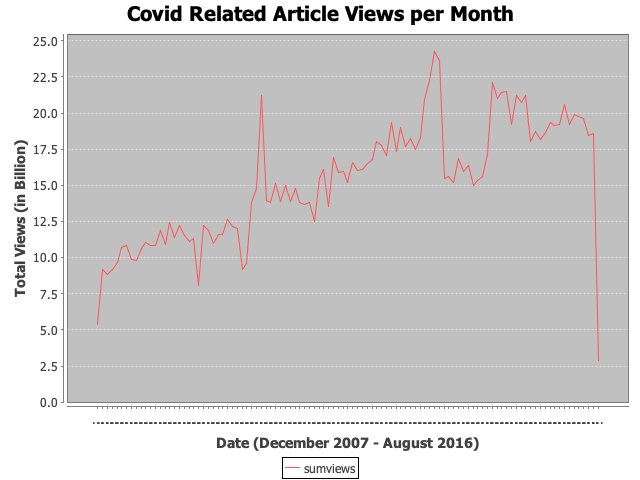
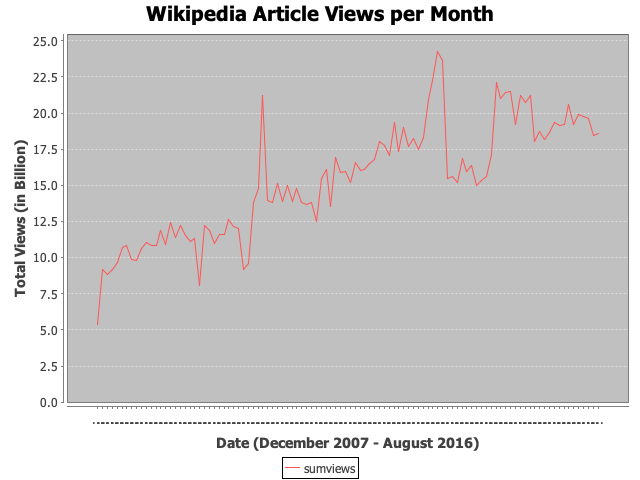
Project

diff --git a/src/main/java/space/harbour/java/project/LineChartSumPageViews.java b/src/main/java/space/harbour/java/project/LineChartSumPageViews.java
@@ -114,10 +114,9 @@ public class LineChartSumPageViews {
         dataset.addValue(19.66, "sumviews", "2016050100");
         dataset.addValue(18.45, "sumviews", "2016060100");
         dataset.addValue(18.61, "sumviews", "2016070100");
-        dataset.addValue(2.85, "sumviews", "2016080100");
 
         JFreeChart lineChartObject = ChartFactory.createLineChart(
-                "Covid Related Article Views per Month", "Date (December 2007 - August 2016)",
+                "Wikipedia Article Views per Month", "Date (December 2007 - August 2016)",
                 "Total Views (in Billion)",
                 dataset, PlotOrientation.VERTICAL,
                 true, true, false);
